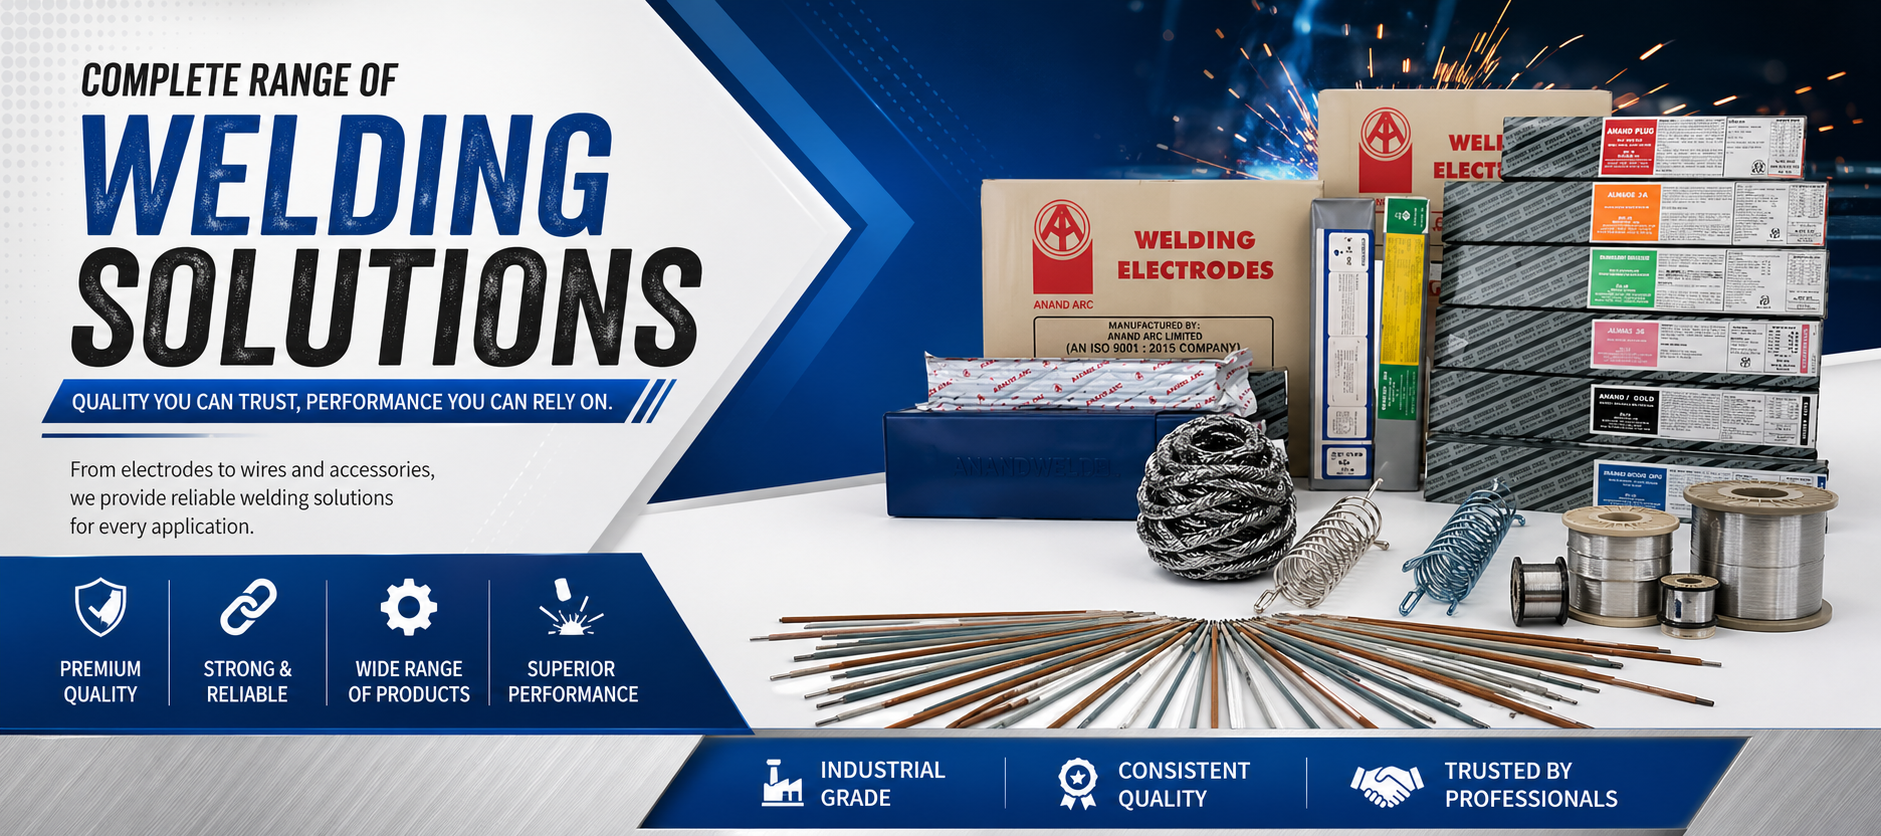
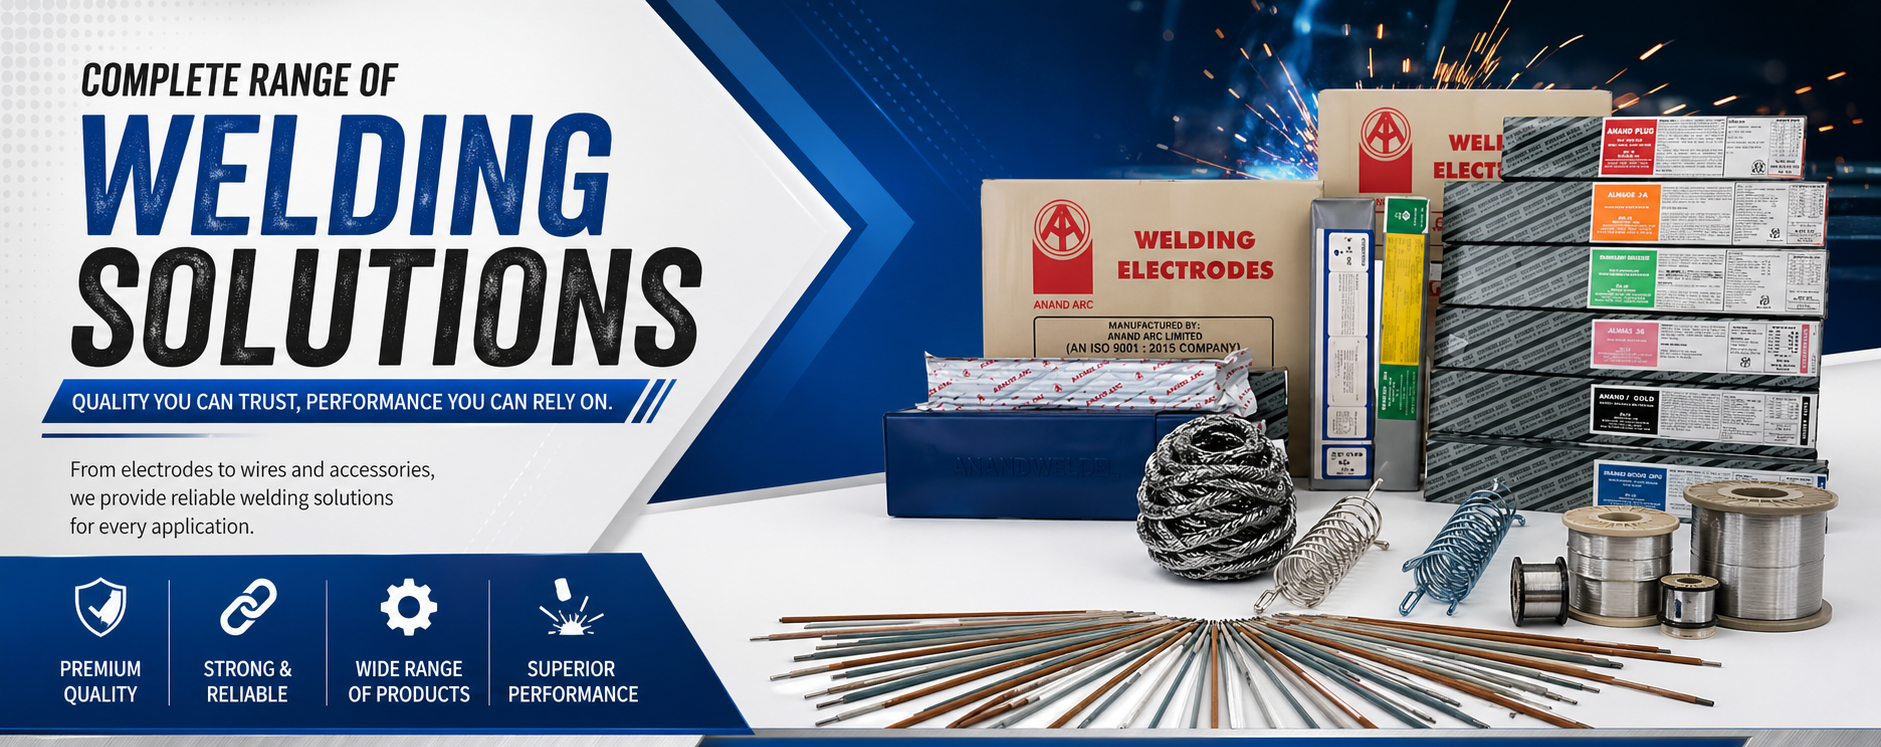
Hero section Updated

diff --git a/index.html b/index.html
@@ -1351,19 +1351,10 @@
       color: #ffffff;
     }
 
-
-/* =========================================================
-   HERO SLIDER
-========================================================= */
-
-/* =========================================================
-   HERO SLIDER
-========================================================= */
-
 .hero-slider{
   position: relative;
   width: 100%;
-  height: 100vh;
+  height: 90vh; /* reduced height */
   overflow: hidden;
   background: #000;
 }
@@ -1392,12 +1383,20 @@
 }
 
 /* =========================================================
-   COMMON IMAGE
+   IMAGE
 ========================================================= */
 
-.hero-slide img{
+.hero-slide img,
+.desktop-banner{
   width: 100%;
   height: 100%;
+
+  /* full section filled */
+  object-fit: cover;
+
+  /* image full visible from top */
+  object-position: center top;
+
   display: block;
 }
 
@@ -1408,8 +1407,14 @@
 .desktop-banner{
   position: absolute;
   inset: 0;
-  object-fit: cover;
+
+  width: 100%;
+  height: 100%;
+
+  /* full image visible */
+  object-fit: contain;
   object-position: center;
+
   display: block;
 }
 
